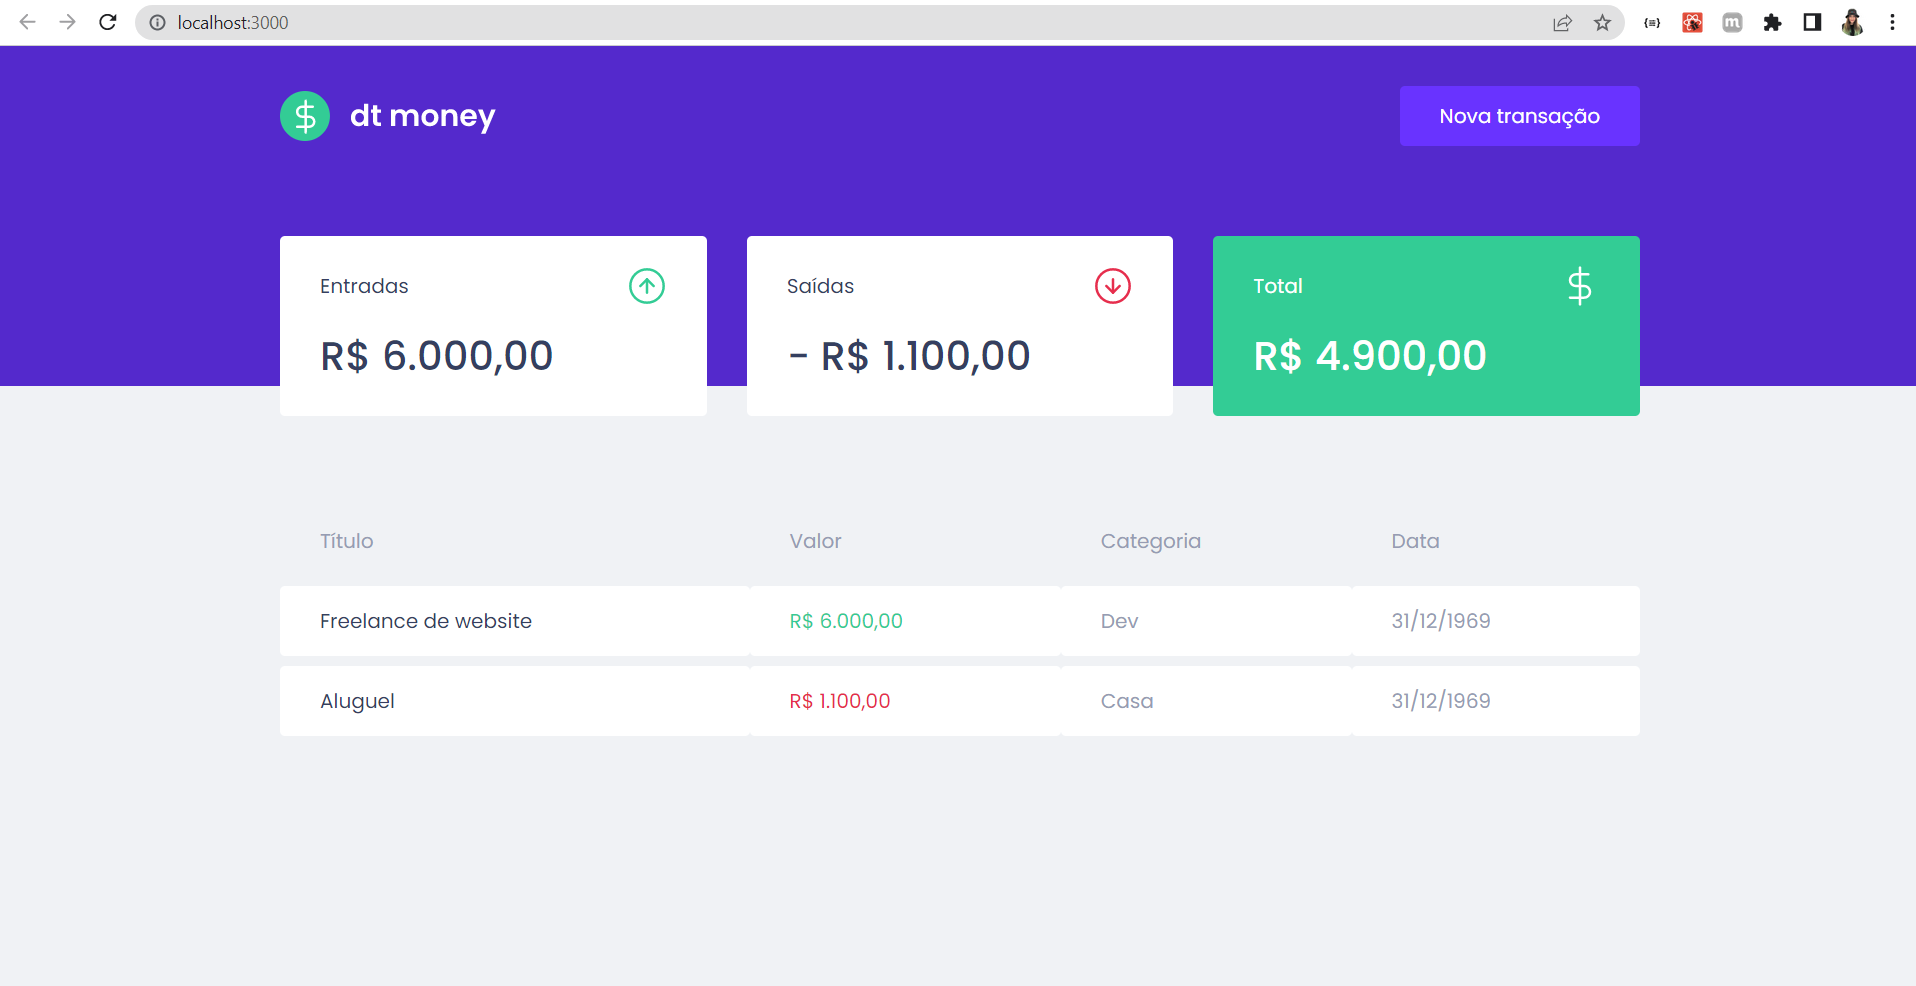
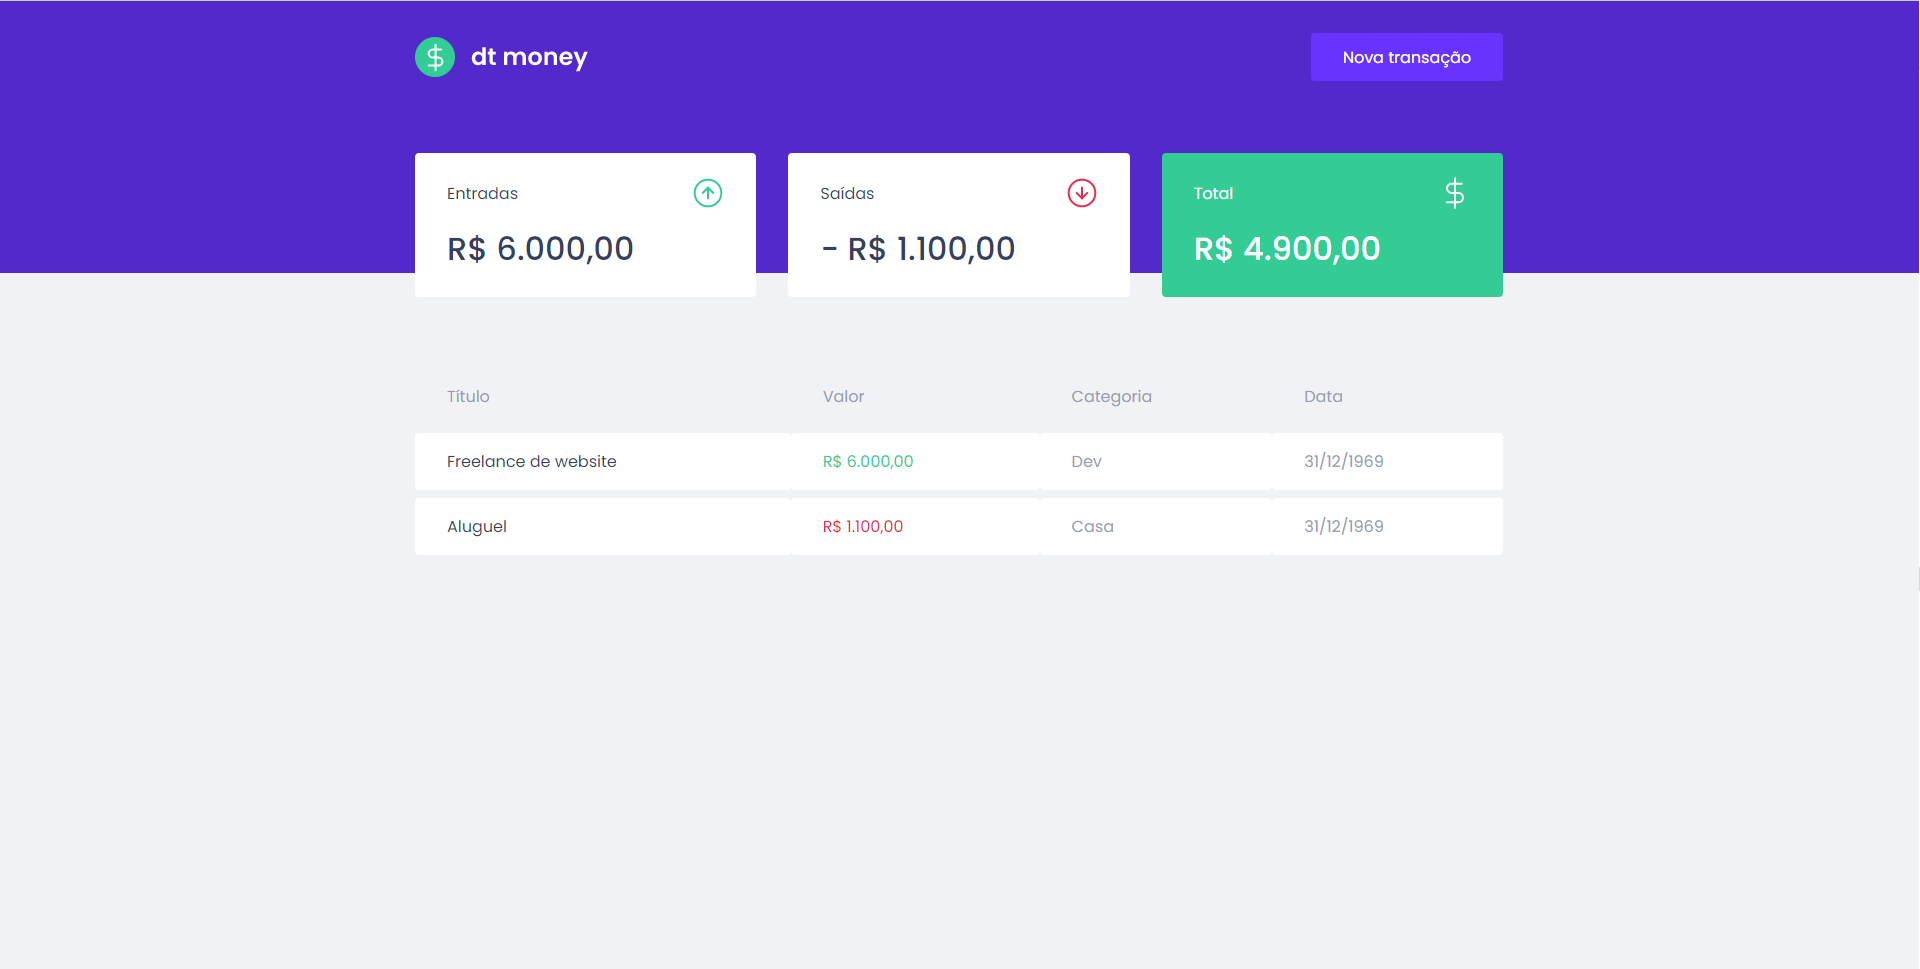
Edit Readme

diff --git a/README.md b/README.md
@@ -1,6 +1,6 @@
 
 <p align="center">
-  <img alt="dtmoney preview" src=".github/preview.png" width="80%">
+  <img alt="dtmoney preview" src=".github/preview.png">
 </p>
 
 O dtmoney, é um app de controle financeiro, construido no curso Ignite da [Rocketseat](https://github.com/rocketseat), o dtmoney tem como objetivo mostrar
